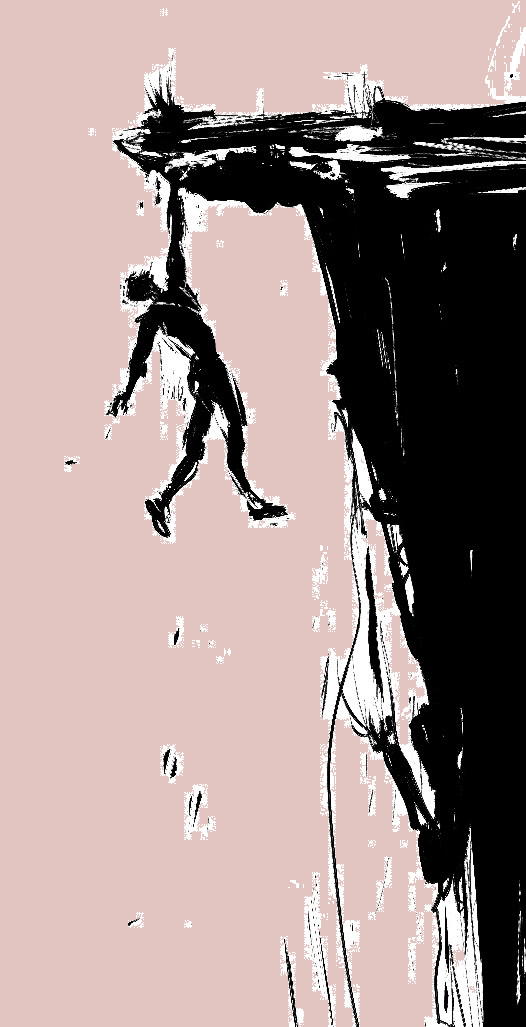
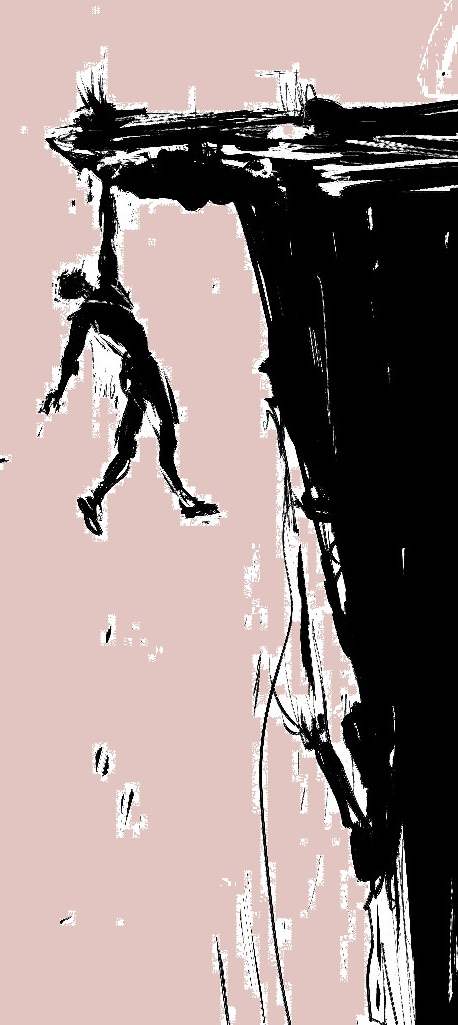
modif accueil

diff --git a/pratique.html b/pratique.html
@@ -19,7 +19,7 @@
                 </ul>
             </nav>
         </header>
-        <section>
+        <section class="section_all">
             <article id="respons1">
                 <h2>Ou nous trouver</h2>
                 <p>Le mur se situe au 22 rue Charles Fourrier à Vitry Sur Seine. Pour s'y rendre en transport en commun il y a plusieurs possibilité</p>
@@ -29,14 +29,14 @@
                 <p>En sortant du côté de la sortie principale, passer sous le pont, avancer dans l'avenue Anatole France, puis à la boulangerie (Òavec une façade jaune-orangé) tournez à droite dans l'avenue Eva Salmon. Au bout de cette rue à sens unique prenez à gauche (rue Pasteur) et au prochain carrefour prenez à droite et vous entrerez dans la rue Charles Fourier. Le gymnase se situe à votre gauche.</p>
             </article>
             <article class="logo_google">
-                <a href="https://www.google.fi/maps/search/22+rue+Charles+Fourrier+%C3%A0+Vitry+Sur+Seine/@48.8027292,2.4058075,16z?hl=fr" target=_blank ><img src="images/google-maps-logo-fleche.png" alt= ="Logo Google Maps" title="Voir sur Google Maps" class="logo_google"/></a><a href="https://www.google.fi/maps/@48.802707,2.407993,3a,75y,319.66h,87.88t/data=!3m4!1e1!3m2!1sccCd5BtwrdHkkye_rQgd5A!2e0?hl=fr" target=_blank ><img src="images/google_street_view.png" alt= ="Logo Google Streets" title="Voir sur Google Maps" id="google_street_logo" /></a>
+                <a href="https://www.google.fi/maps/search/22+rue+Charles+Fourrier+%C3%A0+Vitry+Sur+Seine/@48.8027292,2.4058075,16z?hl=fr" target=_blank ><img src="images/google-maps-logo-fleche.png" alt= ="Logo Google Maps" title="Voir sur Google Maps"/></a><a href="https://www.google.fi/maps/@48.802707,2.407993,3a,75y,319.66h,87.88t/data=!3m4!1e1!3m2!1sccCd5BtwrdHkkye_rQgd5A!2e0?hl=fr" target=_blank ><img src="images/google_street_view.png" alt= ="Logo Google Streets" title="Voir sur Google Maps" id="google_street_logo"/></a>
             </article>
             <article>
                 <h2>Le Bus 180 : arrêt Gare RER de Vitry Sur Seine</h2>
                 <p>Suivre le même chemin que depuis la gare RER ou à la sortie du bus passer sous le pont, avancez dans l'avenue Anatole France puis prenez la troisième rue à droite (restaurant le Jardin des Phénix). Puis avancez tout droit jusqu'au gymnase qui se trouvera sur votre gauche.<br/>Pour les automobilistes, il y a possibilité de garer sa voiture dans la rue du gymnase ou dans les rue aux alentours. Les cyclistes n'h cv ésitez pas à venir, il y a de quoi attacher votre vélo</p>
             </article>
             <article>
-                <h2 id="horaire">Ci dessous nos horaires de séance:</h2>
+                <h2 id="h2_horaire">Ci dessous nos horaires de séance:</h2>
                 <table id="table_horaire">
                     <thead>
                         <tr>
@@ -85,13 +85,13 @@
             </article>
             <article>
                 <h1>Retrouvez nous également sur Facebook et Tweeter</h1>
+            </article>
         </section>
     </body>
     <footer>
         <img src="images/facebook.png" alt="Facebook" title="Vers Facebook"><img src="images/twitter.png" alt="Twitter" title="Vers Twitter">
     </footer>
 </html>
-
 
 
 

diff --git a/style_4+.css b/style_4+.css
@@ -107,9 +107,9 @@ a:hover{
 }
 
 /*Section*/
-section{
-     font-weight: normal;
-     margin: 80px 8px 80px 8px;
+.section_all{
+    font-weight: normal;
+    margin: 80px 8px 80px 8px;
 }
 
 section h1{
@@ -126,7 +126,7 @@ section h2{
     font-size: 17px;
     font-weight: 900;
 }
-#horaire{
+#h2_horaire{
     margin-top: 25px;
     margin-bottom: 10px;
 }
@@ -138,18 +138,12 @@ section h3{
     font-weight: 300;
     text-align: center;
 }
-section p{
+.section_all p{
     font-family: 'HPSimplified_Lt';
     text-align: justify;
-    line-height: 18px;
     /*Propriété ci dessous prise en charge uniquement sur IE et FireFox*/
     text-align-last: center;
     -moz-text-align-last: center;
-}
-#photo_acceuil{
-    width: 400px;
-    float: left;
-    margin: 0 20px 20px 0;
 }
 #respons1{
     clear: both;
@@ -166,16 +160,23 @@ section p{
 #img_falaise, #dentelles{
     float: right;
 }
-#test, #test2{
-    width: 400px;
-    display: inline-block;
-    
+#climb_dessin{
+    width: 230px;
+    margin-top: 40px;
 }
-#test3{
-    display: block;
-    background-color: red;
-    width: 810px;
-    margin: auto;
+#img_left_accueil{
+    display: inline-block;
+    width: 300px;
+}
+#section_accueil{
+    display: inline-block;
+    font-family: 'HPSimplified_Lt';
+    width: 65%;
+    vertical-align: top;
+    margin-top: 60px;
+    padding: 5px;
+    font-size: 2vw;
+    line-height: 30px;
 }
 strong{
     text-align: center;
@@ -191,13 +192,11 @@ strong{
 .point_gris {
     text-align: center;
 }
-
 .point_gris img{
     margin: 20px 5px -40px 5px;
     width: 13px;
     display: inline-block;
 }
-
 .article_actu{
     border-top: 2px solid black;
     margin-top: 50px;
@@ -233,22 +232,25 @@ strong{
     .img_text{
         display: none;
     }
-    #photo_acceuil{
-        width: 80%;
+    #climb_dessin{
+        width: 230px;
+        margin-top: 40px;
+        display: none;
     }
-}
-@media(max-width: 970px){
-    #photo_acceuil{
-        float: none;
-        display: block;
-        margin: 0 auto 20px auto;
-    }
-    #table_horaire{
-        margin: auto;
+    #section_accueil{
+        display: inline-block;
+        font-family: 'HPSimplified_Lt';
+        width: 65%;
+        vertical-align: top;
+        margin-top: 60px;
+        margin-left: ;
+        padding: 5px;
+        font-size: 2vw;
+        line-height: 30px;
     }
 }
 @media(min-width: 1150px){
-    section{
+    .section_all{
         margin: 80px;
     }
 }
@@ -358,7 +360,7 @@ input[type="submit"], input[type="reset"]{
     text-align: left;
     font-family: 'HPSimplified_Lt';
     color: #7f4c41;
-    border-left: solid 3px #d6d5d5;
+    border-left: solid 3px #746866;
     font-size: 20px;
     padding-left: 5px;
 }
@@ -448,9 +450,14 @@ table p{
     }
 }
 
-/* Horraires*/
+/* Horaires*/
 #table_horaire tr, #table_horaire td{
     border: 1px solid black;
+}
+@media(max-width: 970px){
+    #table_horaire{
+        margin: auto;
+    }
 }
 
 /*Images Google*/
@@ -485,5 +492,3 @@ footer img{
         margin-top: 30px;
     }
 }
-/*nav*/
-

diff --git a/index.html b/index.html
@@ -19,16 +19,12 @@
                 </ul>
             </nav>
         </header>
-        <section>
-        <img src="images/climbing2-798218.png" id="test4">
-        <div id="test3">
-            <article>
-                <p><img src="images/rocher_elephant.jpg" class="img_text" id="img_elephant" />Quatre plus est une association affiliée à la Fédération Sportive et Gymnique du Travail (qui s’appuie sur un bénévolat militant pour développer le sport associatif tout au long de la vie, accessible à toute la population, notamment aux milieux les plus populaires et en difficultés sociales). Son but est de promouvoir les activités d’escalade et de montagne, tout en contribuant à l’animation sportive et associative de Vitry sur Seine. Quatre plus est l’association référente pour la gestion du mur d’escalade du port à l’Anglais et gère ainsi l’ensemble des créneaux ouverts au public. L’association fonctionne entièrement sur le bénévolat et l’implication de tous. Ses valeurs sont l’autonomie, la solidarité et le sport populaire. Elle organise tout au long de l’année de nombreuses sorties à Fontainebleau, en falaise et en montagne, des formations techniques et pédagogiques et des initiatives associatives en lien avec les autres club FSGT d’Ile de France.</p>
-            </article>
-            
+        <div id="img_left_accueil">
+            <img src="images/climbing2-798218.png" alt="Dessin de grimpe" title="Dessin de grimpe" id="climb_dessin">
         </div>
-            <article class="point_gris">
-                <img src="images/Point_gris.jpg" alt="point_gris"/><img src="images/Point_gris.jpg" alt="point_gris"/><img src="images/Point_gris.jpg" alt="point_gris"/><img src="images/Point_gris.jpg" alt="point_gris"/>
+        <section id="section_accueil">
+            <article>
+                <p>Quatre plus est une association affiliée à la Fédération Sportive et Gymnique du Travail (qui s’appuie sur un bénévolat militant pour développer le sport associatif tout au long de la vie, accessible à toute la population, notamment aux milieux les plus populaires et en difficultés sociales). Son but est de promouvoir les activités d’escalade et de montagne, tout en contribuant à l’animation sportive et associative de Vitry sur Seine. Quatre plus est l’association référente pour la gestion du mur d’escalade du port à l’Anglais et gère ainsi l’ensemble des créneaux ouverts au public. L’association fonctionne entièrement sur le bénévolat et l’implication de tous. Ses valeurs sont l’autonomie, la solidarité et le sport populaire. Elle organise tout au long de l’année de nombreuses sorties à Fontainebleau, en falaise et en montagne, des formations techniques et pédagogiques et des initiatives associatives en lien avec les autres club FSGT d’Ile de France.</p>
             </article>
         </section>
         

diff --git a/histoire.html b/histoire.html
@@ -19,7 +19,7 @@
                 </ul>
             </nav>
         </header>
-        <section>
+        <section class="section_all">
             <article>
                 <h1>L'HISTOIRE DE 4+ C'EST D'ABORD LA PASSION</h1>
                 <p><img src="images/img_diapo4.jpg" alt="Photo du mur" title="Photo du mur" id="img_mur" class="img_text"/>L’association 4+ est créée en 1986 par trois passionnés de grimpe. Dans la même année elle est affiliée à la FSGT (Fédération sportive et Gymnique du travail) et participe à la manifestation «Foutez-nous la paix» organisé par l’ESV (Club Omnisport de Vitry-sur-Seine). Son but est de regrouper tous les passionnés d’escalade et de sensations fortes pour faire découvrir les bonnes pratiques sportives en montagne et son aspect socio-culturel.<br/>En peu de temps l’association recrute une vingtaine d’adhérents puis une trentaine... La suite logique voit le lancement du projet de construction d’un mur d’escalade à Vitry ce qui permettra à chacun de pouvoir pratiquer régulièrement l’escalade en milieu urbain. Avec le soutien de la municipalité la construction du mur d'escalade de Vitry-sur-Seine voit le jour en 1991 et c’est aujourd’hui plus de 150 adhérents en Île-de-France qui peuvent dorénavant se retrouver la semaine en salle.<br/>Peu de temps après le lancement du projet de construction du mur d'escalade de Vitry, des actions tout public sont menées avec des séances de découverte auprès des enfants de maternelles, des retraités sportifs et des jeunes de l'ALEF pour une pratique de réinsertion.</p>

diff --git a/actualite.html b/actualite.html
@@ -20,7 +20,7 @@
             </nav>
         </header>
         <iframe width="800" height="250" src="mars_avril.html" id="calendrier_frame"></iframe>
-        <section>
+        <section class="section_all">
            <article class="article_actu">
                 <h2>Samedi 14 Mars - 2015</h2>
                 <p>Dans le cadre de "SENTEZ VOUS SPORT", 4+ accueille le public, petits et grands, pour une initiation à l'escalade. Rendez-vous à partir de 14h30 au Gymnase du Port à l'Anglais.<br/>LIEU : Rue Charles Fourrier à Vitry Sur Seine (94400)</p>

diff --git a/formulaire_contact.html b/formulaire_contact.html
@@ -7,7 +7,7 @@
         <link rel="stylesheet" href="style_4+.css" />
     </head>
     <body>
-        <section>
+        <section class="section_all">
             <div id="formulaire">
                 <form method="post" action="index.html"><!--Le doc .php n'existe pas encore-->
                     <fieldset>
